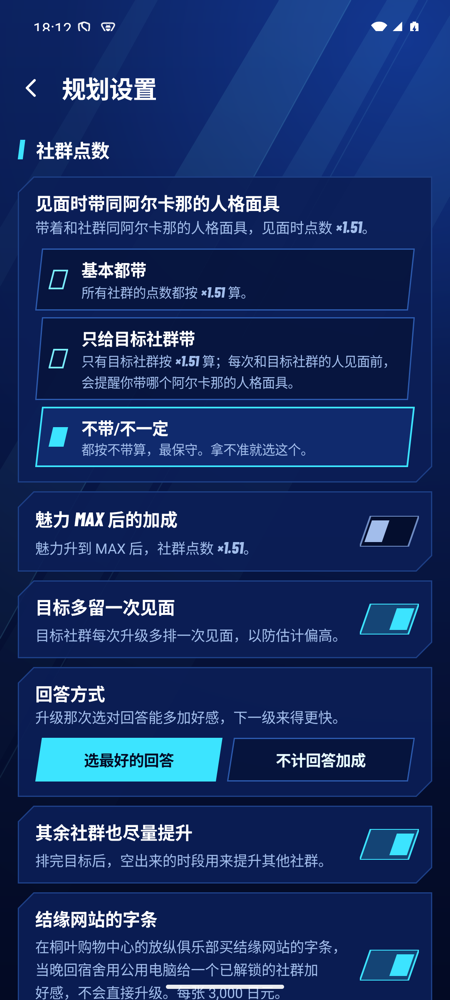
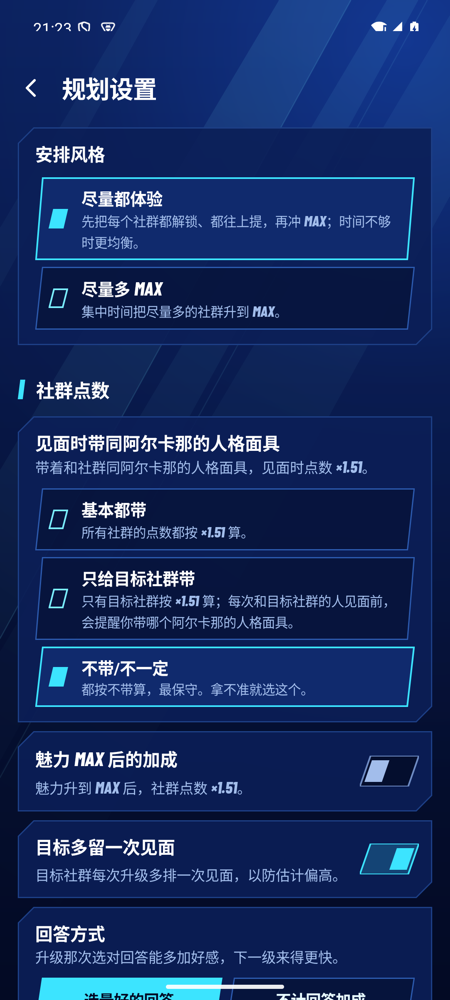
Version 3.1.0: release notes, README, gallery and compliance
- versionCode 33 / versionName 3.1.0.
- RELEASE_NOTES_3.1.0: 尽量都体验 (default), 今天别错过 reminders, answers
  on the widget, 从头重新安排, the Aeon data fix and the 3.0.2 polish that
  never shipped separately, and what changes for 3.0.x players (逐日攻略
  removed: export progress first; remove the old widget).
- README: breadth-first default, new features and numbers from
  PLAN_METRICS; gallery adds 今天别错过, 安排风格, 从头重新安排 (emulator,
  3.1.0 build) and the widget answers row (real-pack render).
- HANDOFF_COMPLIANCE regenerated: 75 met, 1 superseded by the owner's
  removal of the old guide; independent reviews incl. design round 3.

diff --git a/scripts/compliance_doc.py b/scripts/compliance_doc.py
@@ -45,6 +45,7 @@ REVIEWS = (
     ('wiki_sources.json', '数据来源（Reload 专用）'),
     ('design_review_1.json', '外观（第 1 轮）'),
     ('design_review_2.json', '外观（第 2 轮）'),
+    ('design_review_3.json', '外观（第 3 轮，3.1.0 新功能）'),
 )
 VERDICT = {'pass': '✅ 通过', 'pass_with_nits': '✅ 通过（只有小问题）', 'pass_with_notes': '✅ 通过（附说明）', 'fail': '❌ 不通过'}
 

diff --git a/docs/PLAN_METRICS.md b/docs/PLAN_METRICS.md
@@ -4,35 +4,35 @@
 
 | 场景 | 安排风格 | 开始 | 安排范围 | 步数 | 要做的事 | 自由活动 | MAX 社群 | 解锁 | RANK 合计 | RANK 5 以上 | 最低 RANK | 最低 RANK（解锁的） | 羁绊剧情 | 目标升到 MAX | 用时 |
 |---|---|---|---|---|---|---|---|---|---|---|---|---|---|---|---|
-| 对比 · 新游戏 · 不带人格面具 | 尽量多 MAX | 4月21日 白天 | 4月21日 白天 → 1月31日 晚上 | 572 | 454 | 5 | 21/22 | 22/22 | 219 | 22 | 9 | 9 | 0 | — | 812 ms |
-| 对比 · 新游戏 · 不带人格面具 | 尽量都体验 | 4月21日 白天 | 4月21日 白天 → 1月31日 晚上 | 572 | 454 | 5 | 22/22 | 22/22 | 220 | 22 | 10 | 10 | 0 | — | 780 ms |
-| 对比 · 新游戏 · 不带人格面具 · 全部羁绊剧情 | 尽量多 MAX | 4月21日 白天 | 4月21日 白天 → 1月31日 晚上 | 572 | 457 | 2 | 21/22 | 22/22 | 216 | 22 | 6 | 6 | 24 | — | 874 ms |
-| 对比 · 新游戏 · 不带人格面具 · 全部羁绊剧情 | 尽量都体验 | 4月21日 白天 | 4月21日 白天 → 1月31日 晚上 | 572 | 456 | 3 | 21/22 | 22/22 | 217 | 22 | 7 | 7 | 24 | — | 823 ms |
-| 对比 · 新游戏 · 全部羁绊剧情 · 必须：力量 RANK 6 · 想要：命运 RANK 4 | 尽量多 MAX | 4月21日 白天 | 4月21日 白天 → 1月31日 晚上 | 572 | 458 | 1 | 20/22 | 22/22 | 209 | 21 | 3 | 3 | 24 | 力量 6月13日 白天；命运 6月25日 白天 | 1130 ms |
-| 对比 · 新游戏 · 全部羁绊剧情 · 必须：力量 RANK 6 · 想要：命运 RANK 4 | 尽量都体验 | 4月21日 白天 | 4月21日 白天 → 1月31日 晚上 | 572 | 454 | 5 | 19/22 | 22/22 | 213 | 22 | 7 | 7 | 24 | 力量 6月13日 白天；命运 6月25日 白天 | 1418 ms |
-| 对比 · 新游戏 · 只给目标社群带人格面具 · 必须：皇帝 · 想要：恋爱、女皇 | 尽量多 MAX | 4月21日 白天 | 4月21日 白天 → 1月31日 晚上 | 572 | 455 | 4 | 21/22 | 22/22 | 213 | 21 | 3 | 3 | 0 | 皇帝 6月24日 白天；恋爱 10月3日 白天；女皇 12月11日 白天 | 844 ms |
-| 对比 · 新游戏 · 只给目标社群带人格面具 · 必须：皇帝 · 想要：恋爱、女皇 | 尽量都体验 | 4月21日 白天 | 4月21日 白天 → 1月31日 晚上 | 572 | 457 | 2 | 20/22 | 22/22 | 216 | 22 | 8 | 8 | 0 | 皇帝 6月26日 白天；恋爱 10月1日 白天；女皇 12月11日 白天 | 824 ms |
+| 对比 · 新游戏 · 不带人格面具 | 尽量多 MAX | 4月21日 白天 | 4月21日 白天 → 1月31日 晚上 | 572 | 454 | 5 | 21/22 | 22/22 | 219 | 22 | 9 | 9 | 0 | — | 795 ms |
+| 对比 · 新游戏 · 不带人格面具 | 尽量都体验 | 4月21日 白天 | 4月21日 白天 → 1月31日 晚上 | 572 | 454 | 5 | 22/22 | 22/22 | 220 | 22 | 10 | 10 | 0 | — | 755 ms |
+| 对比 · 新游戏 · 不带人格面具 · 全部羁绊剧情 | 尽量多 MAX | 4月21日 白天 | 4月21日 白天 → 1月31日 晚上 | 572 | 457 | 2 | 21/22 | 22/22 | 216 | 22 | 6 | 6 | 24 | — | 832 ms |
+| 对比 · 新游戏 · 不带人格面具 · 全部羁绊剧情 | 尽量都体验 | 4月21日 白天 | 4月21日 白天 → 1月31日 晚上 | 572 | 456 | 3 | 21/22 | 22/22 | 217 | 22 | 7 | 7 | 24 | — | 791 ms |
+| 对比 · 新游戏 · 全部羁绊剧情 · 必须：力量 RANK 6 · 想要：命运 RANK 4 | 尽量多 MAX | 4月21日 白天 | 4月21日 白天 → 1月31日 晚上 | 572 | 458 | 1 | 20/22 | 22/22 | 209 | 21 | 3 | 3 | 24 | 力量 6月13日 白天；命运 6月25日 白天 | 1117 ms |
+| 对比 · 新游戏 · 全部羁绊剧情 · 必须：力量 RANK 6 · 想要：命运 RANK 4 | 尽量都体验 | 4月21日 白天 | 4月21日 白天 → 1月31日 晚上 | 572 | 454 | 5 | 19/22 | 22/22 | 213 | 22 | 7 | 7 | 24 | 力量 6月13日 白天；命运 6月25日 白天 | 1405 ms |
+| 对比 · 新游戏 · 只给目标社群带人格面具 · 必须：皇帝 · 想要：恋爱、女皇 | 尽量多 MAX | 4月21日 白天 | 4月21日 白天 → 1月31日 晚上 | 572 | 455 | 4 | 21/22 | 22/22 | 213 | 21 | 3 | 3 | 0 | 皇帝 6月24日 白天；恋爱 10月3日 白天；女皇 12月11日 白天 | 812 ms |
+| 对比 · 新游戏 · 只给目标社群带人格面具 · 必须：皇帝 · 想要：恋爱、女皇 | 尽量都体验 | 4月21日 白天 | 4月21日 白天 → 1月31日 晚上 | 572 | 457 | 2 | 20/22 | 22/22 | 216 | 22 | 8 | 8 | 0 | 皇帝 6月26日 白天；恋爱 10月1日 白天；女皇 12月11日 白天 | 777 ms |
 | 新游戏 · 不带人格面具 · 全部社群 | 尽量都体验 | 4月21日 白天 | 4月21日 白天 → 1月31日 晚上 | 572 | 454 | 5 | 22/22 | 22/22 | 220 | 22 | 10 | 10 | 0 | — | 736 ms |
-| 新游戏 · 不带人格面具 · 全部羁绊剧情 | 尽量都体验 | 4月21日 白天 | 4月21日 白天 → 1月31日 晚上 | 572 | 456 | 3 | 21/22 | 22/22 | 217 | 22 | 7 | 7 | 24 | — | 815 ms |
-| 新游戏 · 不带人格面具 · 结缘网站的字条 | 尽量都体验 | 4月21日 白天 | 4月21日 白天 → 1月31日 晚上 | 572 | 454 | 5 | 22/22 | 22/22 | 220 | 22 | 10 | 10 | 0 | — | 755 ms |
-| 新游戏 · 只给目标社群带人格面具 · 必须：皇帝 · 想要：恋爱、女皇 | 尽量都体验 | 4月21日 白天 | 4月21日 白天 → 1月31日 晚上 | 572 | 457 | 2 | 20/22 | 22/22 | 216 | 22 | 8 | 8 | 0 | 皇帝 6月26日 白天；恋爱 10月1日 白天；女皇 12月11日 白天 | 774 ms |
-| 新游戏 · 基本都带人格面具 · 结缘网站的字条 | 尽量都体验 | 4月21日 白天 | 4月21日 白天 → 1月31日 晚上 | 572 | 445 | 14 | 22/22 | 22/22 | 220 | 22 | 10 | 10 | 0 | — | 680 ms |
-| 新游戏 · 必须：皇帝 · 结缘网站的字条 | 尽量都体验 | 4月21日 白天 | 4月21日 白天 → 1月31日 晚上 | 572 | 454 | 5 | 21/22 | 22/22 | 219 | 22 | 9 | 9 | 0 | 皇帝 6月29日 白天 | 754 ms |
-| 新游戏 · 携带同阿尔卡那人格面具（×1.51）· 全部社群 | 尽量都体验 | 4月21日 白天 | 4月21日 白天 → 1月31日 晚上 | 572 | 445 | 14 | 22/22 | 22/22 | 220 | 22 | 10 | 10 | 0 | — | 650 ms |
-| 早期 · 4月21日新游戏 · 必须：皇帝 + 其余社群 | 尽量都体验 | 4月21日 白天 | 4月21日 白天 → 1月31日 晚上 | 572 | 454 | 5 | 21/22 | 22/22 | 219 | 22 | 9 | 9 | 0 | 皇帝 6月29日 白天 | 746 ms |
-| 中期 · 10月22日 · 必须：①力量 ②正义 + 其余社群 | 尽量都体验 | 10月22日 白天 | 10月22日 白天 → 1月31日 晚上 | 204 | 169 | 0 | 8/22 | 20/22 | 135 | 13 | 0 | 3 | 0 | 力量 12月26日 白天；正义 1月19日 白天 | 175 ms |
-| 中期 · 10月22日 · 必须：①女教皇 ②女皇 ③恋爱 + 其余社群 | 尽量都体验 | 10月22日 白天 | 10月22日 白天 → 1月31日 晚上 | 204 | 169 | 0 | 6/22 | 18/22 | 97 | 8 | 0 | 1 | 0 | 女教皇 1月25日 白天；女皇 1月27日 白天；恋爱 停在 RANK 0 | 320 ms |
-| 中期 · 10月22日 · 必须：①恶魔 ②女皇 ③月亮 + 其余社群 | 尽量都体验 | 10月22日 白天 | 10月22日 白天 → 1月31日 晚上 | 204 | 169 | 0 | 7/22 | 21/22 | 117 | 11 | 0 | 1 | 0 | 恶魔 12月29日 晚上；女皇 1月23日 白天；月亮 12月22日 白天 | 162 ms |
-| 中期 · 10月22日 · 必须：①正义 ②力量 + 其余社群 | 尽量都体验 | 10月22日 白天 | 10月22日 白天 → 1月31日 晚上 | 204 | 169 | 0 | 7/22 | 20/22 | 133 | 16 | 0 | 3 | 0 | 正义 12月22日 白天；力量 1月20日 白天 | 177 ms |
-| 中期 · 10月22日 · 必须：皇帝 · 想要：女教皇 + 其余社群 | 尽量都体验 | 10月22日 白天 | 10月22日 白天 → 1月31日 晚上 | 204 | 169 | 0 | 7/22 | 21/22 | 137 | 13 | 0 | 3 | 0 | 皇帝 12月21日 白天；女教皇 1月29日 白天 | 160 ms |
-| 中期 · 10月22日 · 魔术师 2、太阳 7、1,000 日元、魅力 Lv.3 | 尽量都体验 | 10月22日 白天 | 10月22日 白天 → 1月31日 晚上 | 204 | 169 | 0 | 8/22 | 21/22 | 151 | 18 | 0 | 4 | 0 | — | 163 ms |
-| 对比 · 中期 · 10月22日 · 全部社群 | 尽量多 MAX | 10月22日 白天 | 10月22日 白天 → 1月31日 晚上 | 204 | 169 | 0 | 13/22 | 20/22 | 152 | 14 | 0 | 0 | 0 | — | 169 ms |
-| 对比 · 中期 · 10月22日 · 全部社群 | 尽量都体验 | 10月22日 白天 | 10月22日 白天 → 1月31日 晚上 | 204 | 169 | 0 | 8/22 | 21/22 | 151 | 18 | 0 | 4 | 0 | — | 163 ms |
-| 对比 · 中期 · 10月22日 · 必须：皇帝 · 想要：女教皇 | 尽量多 MAX | 10月22日 白天 | 10月22日 白天 → 1月31日 晚上 | 204 | 169 | 0 | 10/22 | 21/22 | 137 | 12 | 0 | 1 | 0 | 皇帝 12月21日 白天；女教皇 1月25日 白天 | 173 ms |
-| 对比 · 中期 · 10月22日 · 必须：皇帝 · 想要：女教皇 | 尽量都体验 | 10月22日 白天 | 10月22日 白天 → 1月31日 晚上 | 204 | 169 | 0 | 7/22 | 21/22 | 137 | 13 | 0 | 3 | 0 | 皇帝 12月21日 白天；女教皇 1月29日 白天 | 161 ms |
+| 新游戏 · 不带人格面具 · 全部羁绊剧情 | 尽量都体验 | 4月21日 白天 | 4月21日 白天 → 1月31日 晚上 | 572 | 456 | 3 | 21/22 | 22/22 | 217 | 22 | 7 | 7 | 24 | — | 790 ms |
+| 新游戏 · 不带人格面具 · 结缘网站的字条 | 尽量都体验 | 4月21日 白天 | 4月21日 白天 → 1月31日 晚上 | 572 | 454 | 5 | 22/22 | 22/22 | 220 | 22 | 10 | 10 | 0 | — | 741 ms |
+| 新游戏 · 只给目标社群带人格面具 · 必须：皇帝 · 想要：恋爱、女皇 | 尽量都体验 | 4月21日 白天 | 4月21日 白天 → 1月31日 晚上 | 572 | 457 | 2 | 20/22 | 22/22 | 216 | 22 | 8 | 8 | 0 | 皇帝 6月26日 白天；恋爱 10月1日 白天；女皇 12月11日 白天 | 783 ms |
+| 新游戏 · 基本都带人格面具 · 结缘网站的字条 | 尽量都体验 | 4月21日 白天 | 4月21日 白天 → 1月31日 晚上 | 572 | 445 | 14 | 22/22 | 22/22 | 220 | 22 | 10 | 10 | 0 | — | 668 ms |
+| 新游戏 · 必须：皇帝 · 结缘网站的字条 | 尽量都体验 | 4月21日 白天 | 4月21日 白天 → 1月31日 晚上 | 572 | 454 | 5 | 21/22 | 22/22 | 219 | 22 | 9 | 9 | 0 | 皇帝 6月29日 白天 | 755 ms |
+| 新游戏 · 携带同阿尔卡那人格面具（×1.51）· 全部社群 | 尽量都体验 | 4月21日 白天 | 4月21日 白天 → 1月31日 晚上 | 572 | 445 | 14 | 22/22 | 22/22 | 220 | 22 | 10 | 10 | 0 | — | 659 ms |
+| 早期 · 4月21日新游戏 · 必须：皇帝 + 其余社群 | 尽量都体验 | 4月21日 白天 | 4月21日 白天 → 1月31日 晚上 | 572 | 454 | 5 | 21/22 | 22/22 | 219 | 22 | 9 | 9 | 0 | 皇帝 6月29日 白天 | 759 ms |
+| 中期 · 10月22日 · 必须：①力量 ②正义 + 其余社群 | 尽量都体验 | 10月22日 白天 | 10月22日 白天 → 1月31日 晚上 | 204 | 169 | 0 | 8/22 | 20/22 | 135 | 13 | 0 | 3 | 0 | 力量 12月26日 白天；正义 1月19日 白天 | 178 ms |
+| 中期 · 10月22日 · 必须：①女教皇 ②女皇 ③恋爱 + 其余社群 | 尽量都体验 | 10月22日 白天 | 10月22日 白天 → 1月31日 晚上 | 204 | 169 | 0 | 6/22 | 18/22 | 97 | 8 | 0 | 1 | 0 | 女教皇 1月25日 白天；女皇 1月27日 白天；恋爱 停在 RANK 0 | 329 ms |
+| 中期 · 10月22日 · 必须：①恶魔 ②女皇 ③月亮 + 其余社群 | 尽量都体验 | 10月22日 白天 | 10月22日 白天 → 1月31日 晚上 | 204 | 169 | 0 | 7/22 | 21/22 | 117 | 11 | 0 | 1 | 0 | 恶魔 12月29日 晚上；女皇 1月23日 白天；月亮 12月22日 白天 | 167 ms |
+| 中期 · 10月22日 · 必须：①正义 ②力量 + 其余社群 | 尽量都体验 | 10月22日 白天 | 10月22日 白天 → 1月31日 晚上 | 204 | 169 | 0 | 7/22 | 20/22 | 133 | 16 | 0 | 3 | 0 | 正义 12月22日 白天；力量 1月20日 白天 | 180 ms |
+| 中期 · 10月22日 · 必须：皇帝 · 想要：女教皇 + 其余社群 | 尽量都体验 | 10月22日 白天 | 10月22日 白天 → 1月31日 晚上 | 204 | 169 | 0 | 7/22 | 21/22 | 137 | 13 | 0 | 3 | 0 | 皇帝 12月21日 白天；女教皇 1月29日 白天 | 162 ms |
+| 中期 · 10月22日 · 魔术师 2、太阳 7、1,000 日元、魅力 Lv.3 | 尽量都体验 | 10月22日 白天 | 10月22日 白天 → 1月31日 晚上 | 204 | 169 | 0 | 8/22 | 21/22 | 151 | 18 | 0 | 4 | 0 | — | 170 ms |
+| 对比 · 中期 · 10月22日 · 全部社群 | 尽量多 MAX | 10月22日 白天 | 10月22日 白天 → 1月31日 晚上 | 204 | 169 | 0 | 13/22 | 20/22 | 152 | 14 | 0 | 0 | 0 | — | 173 ms |
+| 对比 · 中期 · 10月22日 · 全部社群 | 尽量都体验 | 10月22日 白天 | 10月22日 白天 → 1月31日 晚上 | 204 | 169 | 0 | 8/22 | 21/22 | 151 | 18 | 0 | 4 | 0 | — | 168 ms |
+| 对比 · 中期 · 10月22日 · 必须：皇帝 · 想要：女教皇 | 尽量多 MAX | 10月22日 白天 | 10月22日 白天 → 1月31日 晚上 | 204 | 169 | 0 | 10/22 | 21/22 | 137 | 12 | 0 | 1 | 0 | 皇帝 12月21日 白天；女教皇 1月25日 白天 | 181 ms |
+| 对比 · 中期 · 10月22日 · 必须：皇帝 · 想要：女教皇 | 尽量都体验 | 10月22日 白天 | 10月22日 白天 → 1月31日 晚上 | 204 | 169 | 0 | 7/22 | 21/22 | 137 | 13 | 0 | 3 | 0 | 皇帝 12月21日 白天；女教皇 1月29日 白天 | 166 ms |
 | 1月8日 · 力量 6、正义 6 · 必须：①力量 ②正义 | 尽量都体验 | 1月8日 白天 | 1月8日 白天 → 1月31日 晚上 | 48 | 46 | 0 | 4/22 | 15/22 | 85 | 8 | 0 | 1 | 0 | 力量 1月27日 白天；正义 停在 RANK 8 | 15 ms |
 | 1月8日 · 力量 6、正义 6 · 必须：①正义 ②力量 | 尽量都体验 | 1月8日 白天 | 1月8日 白天 → 1月31日 晚上 | 48 | 46 | 0 | 4/22 | 15/22 | 86 | 8 | 0 | 1 | 0 | 正义 1月28日 白天；力量 停在 RANK 8 | 15 ms |
-| 1月8日 · 力量 6、正义 6 · 必须：力量 | 尽量都体验 | 1月8日 白天 | 1月8日 白天 → 1月31日 晚上 | 48 | 46 | 0 | 4/22 | 18/22 | 93 | 8 | 0 | 2 | 0 | 力量 1月30日 白天 | 16 ms |
+| 1月8日 · 力量 6、正义 6 · 必须：力量 | 尽量都体验 | 1月8日 白天 | 1月8日 白天 → 1月31日 晚上 | 48 | 46 | 0 | 4/22 | 18/22 | 93 | 8 | 0 | 2 | 0 | 力量 1月30日 白天 | 17 ms |
 | 1月8日 · 力量 6、正义 6 · 必须：正义 | 尽量都体验 | 1月8日 白天 | 1月8日 白天 → 1月31日 晚上 | 48 | 46 | 0 | 4/22 | 18/22 | 92 | 8 | 0 | 2 | 0 | 正义 1月28日 白天 | 15 ms |
-| 对比 · 1月8日 · 晚开始（恶魔未解锁，各社群高低不一） | 尽量多 MAX | 1月8日 白天 | 1月8日 白天 → 1月31日 晚上 | 48 | 46 | 0 | 8/22 | 22/22 | 135 | 15 | 1 | 1 | 0 | — | 11 ms |
+| 对比 · 1月8日 · 晚开始（恶魔未解锁，各社群高低不一） | 尽量多 MAX | 1月8日 白天 | 1月8日 白天 → 1月31日 晚上 | 48 | 46 | 0 | 8/22 | 22/22 | 135 | 15 | 1 | 1 | 0 | — | 12 ms |
 | 对比 · 1月8日 · 晚开始（恶魔未解锁，各社群高低不一） | 尽量都体验 | 1月8日 白天 | 1月8日 白天 → 1月31日 晚上 | 48 | 46 | 0 | 5/22 | 22/22 | 140 | 16 | 3 | 3 | 0 | — | 11 ms |

diff --git a/README.md b/README.md
@@ -2,7 +2,7 @@
 
 离线运行的 Android 应用 + 桌面小组件。根据你**现在的存档状态**和想 MAX 的社群，把从今天到 1 月 31 日的**每一个白天和晚上**都排好，并且整份安排前后自洽：每一步对现金、个人能力值（学力/魅力/勇气）、社群 RANK、解锁进度和塔尔塔罗斯次数的影响都会推演下去，后面的安排建立在前面的结果之上。
 
-> 不追求“全局最优”，追求“相对优秀、靠得住”：先满足你选的目标，剩下的时间尽量把其他社群也拉满。
+> 不追求“全局最优”，追求“相对优秀、靠得住”：先满足你选的目标，剩下的时间默认「尽量都体验」——先把每个社群都解锁、都往上提，再冲 MAX，而不是只冲几个 MAX、不管其余社群。
 
 ## 截图
 
@@ -20,8 +20,13 @@
 <img src="docs/screenshots/rank_pad.png" width="230" alt="RANK 小键盘">
 </p>
 <p>
+<img src="docs/screenshots/reminders.png" width="230" alt="今天别错过">
+<img src="docs/screenshots/settings.png" width="230" alt="规划设置 · 安排风格">
+<img src="docs/screenshots/full_replan.png" width="230" alt="从头重新安排">
+</p>
+<p>
+<img src="docs/screenshots/widget_answers.png" width="320" alt="小组件上的参考回答">
 <img src="docs/screenshots/result_tower.png" width="230" alt="塔尔塔罗斯结果">
-<img src="docs/screenshots/settings.png" width="230" alt="规划设置">
 </p>
 
 ## 下载
@@ -43,9 +48,13 @@
    - 和社群的人见面：弹出小面板，「升到 RANK 7 了」/「没升级」/「没见到」，点一个就行。需要带人格面具时会提醒你带哪个阿尔卡那。
    - 塔尔塔罗斯：填到达的最高层，现金填「出塔后余额」或「这次多了多少」其中一个。
    - 顺便要做的事（比如给田中社长付款）会写在同一项里，不会消耗时间。
+   - 见面时该选哪句：小组件上直接写「答：…」，不用点进去看；课堂提问和考试的答案也会写在当天的卡片上。
+   - **今天别错过**：不会消耗时间但值得做的事会在当天提醒——课堂提问和考试的答案、上课犯困时闭不闭眼、去保健室、电视购物、伊莉莎白的新委托和截止日期、失踪者、黄昏的碎片、新开的店。
 3. **没照安排走**：点「做不了 / 改做别的」选原因或实际做的事，后面的安排会自动重新安排。
 4. **很久没记录**：「我的 → 同步现状」，填今天的游戏日期，只改和预计不一样的数值。
-5. **可选**：在「社群」页勾选想看的羁绊剧情（顺平、真田、虎狼丸、天田、荒垣），会在能看的日子留出时段；11 月后会用「结缘网站的字条」把多出来的晚上换成社群好感。
+5. **想从头再排一遍**：「我的 → 从头重新安排」，重新读取进度和规划设置，不参考现在的安排，从头排到 1月31日（比平时多算几秒）。
+6. **安排风格**：「规划设置」里可以选「尽量都体验」（默认）或「尽量多 MAX」。
+7. **可选**：在「社群」页勾选想看的羁绊剧情（顺平、真田、虎狼丸、天田、荒垣），会在能看的日子留出时段；11 月后会用「结缘网站的字条」把多出来的晚上换成社群好感。
 
 所有记录都能撤销（「我的 → 记录历史」），之后改目标或人格面具设置也不会改写已经确认过的记录。
 
@@ -54,7 +63,8 @@
 - 按时间顺序完整推演整个日历，每个时段只做一件事；每一步的结果（钱、个人能力值、RANK、解锁进度、塔尔塔罗斯次数）都会带到后面。
 - 需要付钱解锁的社群（比如恶魔社群的三次付款）：交完钱手上至少还留 2,500 日元；快到交钱的时候，花钱提升能力和买结缘网站的字条都不会动用要交的钱。只有晚交会赶不上升级目标时，才会留得比这少。
 - 搜索方法：贪心基础策略 + 前瞻“滚动推演”（rollout）。每个时段比较几个候选，各自往后模拟到 1 月 31 日，选最终结果最好的那个；白天优先留给社群，能在晚上练的个人能力值不占白天，打工只在需要用钱时安排。手机上一般 1 秒左右算完，算不完也会给出覆盖到 1 月 31 日的完整安排。
-- 实测（新游戏开始）：见面时基本都带同阿尔卡那的人格面具，预计 22 个社群全部 MAX；不计人格面具加成时 21 个；「必须：皇帝」时皇帝 6月29日 MAX，共 21 个 MAX。目标严格按顺序优先：排在前面的目标不会为了后面的目标让步。各场景的完整结果见 [`docs/PLAN_METRICS.md`](docs/PLAN_METRICS.md)。
+- **尽量都体验（默认）**：不是目标的社群，每升一级的价值递减——解锁一个新社群最值，已经很高的社群再升一级没那么值，所以安排会先把所有社群都解锁、都往上提；MAX 仍然有额外的价值。安排时还会同时算一份「尽量多 MAX」的安排来对比，保证「尽量都体验」不会在解锁数、RANK 5 以上的社群数和 RANK 合计上全面输给它。
+- 实测（新游戏开始，不计人格面具加成）：预计 22 个社群全部 MAX（「尽量多 MAX」是 21 个）；「必须：皇帝」时皇帝 6月29日 MAX，共 21 个 MAX。从 10月22日 开始时，「尽量都体验」会解锁更多社群、让更多社群升到 RANK 5 以上，MAX 的数量少一些。目标严格按顺序优先：排在前面的目标不会为了后面的目标让步。各场景的完整结果见 [`docs/PLAN_METRICS.md`](docs/PLAN_METRICS.md)。
 - 每份安排生成后都由独立的校验器检查：不重复占用时段、不在剧情日行动、不超支、不超过塔尔塔罗斯次数上限、RANK 推演一致。
 - 看不见的数值（好感点数、能力值点数）只用保守估计，并且和你确认过的进度分开保存：预计永远不会被当成已发生的事实。普通见面 +10 点是估计值（游戏里约显示 ♪♪），在「规划说明」里写明。
 

diff --git a/docs/RELEASE_NOTES_3.1.0.md b/docs/RELEASE_NOTES_3.1.0.md
@@ -1,0 +1,54 @@
+# P3R 规划 3.1.0
+
+这一版的重点是两件事：让安排更像一个想把游戏内容尽量都体验到的玩家会做的选择，以及把玩的时候需要知道的东西直接放到眼前。
+
+## 新功能
+
+- **安排风格「尽量都体验」（默认）**：不是你目标的社群，每升一级的价值递减——解锁一个新社群最值，已经很高的社群再升一级没那么值。所以安排会先把每个社群都解锁、都往上提，再冲 MAX，而不是只冲几个 MAX、不管其余社群。
+  - 你选的「必须」「想要」目标照旧严格按顺序优先。
+  - 每次都会同时算一份「尽量多 MAX」的安排来对比：「尽量都体验」在解锁的社群数、升到 RANK 5 以上的社群数和 RANK 合计上，不会全面输给它。
+  - 想集中冲 MAX 的话，可以在「规划设置 → 安排风格」里换成「尽量多 MAX」。
+  - 新建的进度默认勾选全部羁绊剧情；已经存好的设置不会被改动。
+- **今天别错过**：不会消耗时间、但值得做的事，会在当天提醒你。「今天」页、日程和当天的详情里都有，桌面小组件上也会显示最要紧的一条。
+  - 课堂提问和考试的答案；
+  - 上课犯困时闭不闭眼，以及什么时候去保健室（勇气 +2）；
+  - 电视购物的新商品和价格；
+  - 伊莉莎白的新委托和截止日期；
+  - 失踪者和救援期限；
+  - 黄昏的碎片；
+  - 新开的店。
+  - 答案取自 3DM 的《女神异闻录3 Reload》简体中文攻略原文，并和 Reload 的游戏数据、日历逐条核对过日期和选项位置。旧攻略里有 9 处答案照搬了英文版的说法，和简中游戏里的选项对不上（比如 5月19日应为「五月病」），这次全部改正。没有可靠简中原文的 4 天课堂提问暂不显示。
+- **小组件上直接显示该选哪句**：见面时写「答：A / B」，不用点进去看。
+  - 预计这次不一定升级时，写成「要是升级了，答：…」。
+  - 走朋友路线时会提醒别选表白的回答。
+  - 小尺寸时用更短的写法，选项不会被截断；实在放不下时写「等 N 项」，点开就能看全。
+- **从头重新安排**：「我的 → 从头重新安排」会重新读取你记下的进度和规划设置，不参考现在的安排，从头排到 1月31日。比平时多算几秒；算完会告诉你哪里变了，或者「安排没有变化」。
+
+## 数据
+
+- 埃癸斯（永劫）只在周一、三、五、六放学后见面：多份 Reload 攻略都这样写，按「来源不一致时取更严格的说法」的规则修正。
+- 数据来源经过独立复核：没有任何规则用到 P3、FES 或 P3P 的旧数据。
+
+## 外观
+
+- 正文里的词、人名和地点不会被拆到两行；一行不会只剩一个字、「吗？」或「·」「/」。
+- 「社群」页、塔尔塔罗斯记录面板、「今天」页按钮、读取失败提示等处的细节都做了打磨。
+- 桌面小组件的改进：
+  - 已经在显示当前这一项时，「当前」会变暗。
+  - 出错、全部完成、剧情日等状态，只显示一个能点的按钮。
+  - 小尺寸和大字号下，能力值、人名、地点都不会被「…」截断。
+  - 卡片在最小尺寸也总会写明是谁或做什么。
+  - Android 8–11 上也是圆角。
+
+## 从 3.0.x 更新
+
+- 直接覆盖安装即可（同一个包名 `app.p3r.planner`、同一个签名证书）。记录和设置都会保留，打开后会自动重新安排一次。
+- 3.1.0 去掉了「我的 → 逐日攻略」，它的打勾进度更新后就看不到了。想保留的话，**更新前**先打开逐日攻略，点右上角的菜单按钮打开「设置」，再点「导出进度备份」；这个文件可以导入旧版 2.0.0「P3R」的固定攻略。
+- 如果桌面上还有「P3R 逐日攻略」小组件，更新后它会失效，长按把它移除就好；「P3R 每日安排」不受影响。
+- 当天提醒里的能力值加成和电视购物花的钱不在安排的预计里，做了以后去「同步现状」更新一下，安排会更准。
+
+## 校验
+
[1 lines of base64/hex data omitted]
+- 签名证书 SHA-256：`90:EB:C6:4F:B8:6D:A3:F2:C5:50:1F:D3:31:5A:86:9D:B5:3B:AE:48:D5:F4:FD:E9:D1:D8:32:82:AB:8A:79:A0`
+- 最低 Android 8.0（API 26），目标 Android 15（API 35）。安装包约 0.87 MB。

diff --git a/docs/HANDOFF_COMPLIANCE.md b/docs/HANDOFF_COMPLIANCE.md
@@ -1,6 +1,6 @@
 # 交接文档完成情况
 
-本文件逐条对照 `P3R_HANDOFF_PROMPT.md`（交接/设计文档）以及所有者在开发过程中补充的要求，列出 3.0.2 的完成情况和证据。
+本文件逐条对照 `P3R_HANDOFF_PROMPT.md`（交接/设计文档）以及所有者在开发过程中补充的要求，列出 3.1.0 的完成情况和证据。
 每一条都由独立审查代理对照代码、测试、真机/模拟器截图核实（只读审查，证据含文件位置、测试名与运行结果、截图路径），未满足的地方如实写出。原始审查记录在 `docs/analysis/audit/`。
 
 **统计**：已满足 75 条 · 部分满足 0 条 · 未满足 0 条 · 已被所有者要求取代 1 条（共 76 条）。
@@ -114,4 +114,5 @@
 | 数据来源（Reload 专用） | ✅ 通过（附说明）（核对 18 项事实：17 项一致，1 项已按更严格的说法修正） | No use of Persona 3 / FES / Portable (P3P) data for any shipped rule: every pack record cites at least one Reload source, and 'mixed'-edition sources appear only as corroboration next to Reload sources. All pinned snapshots are genuinely Reload: the Steam pages are app 2161700 with Reload-only achievements (Shift, Theurgy, Twilight Fragments); the aqiu game-data files come from src/p3r/Content/Xrd777 (P3R's game files) and three re-fetched upstream copies are byte-identical; the CN guide and 3DM page contain Reload-only content (神通法, 黄昏碎片, 羁绊剧情, 结缘网站的字条). All 33 sha256 pins in SOURCES.json and… | `wiki_sources.json` |
 | 外观（第 1 轮） | ✅ 通过（只有小问题）（看了 134 张图） | Passes on looks: a finished product with its own P3R identity rather than a default template. The navy/cyan palette, slanted panels, calendar-plate dates, condensed italic numerals and faint character art hold together across the wizard, the four tabs, result sheets, settings, keypads and the widget in both palettes. No blocker or major defect; nothing badly clipped; contrast good; large-font renders hold. Remaining issues are Chinese typography and small-size polish. | `design_review_1.json` |
 | 外观（第 2 轮） | ✅ 通过（只有小问题）（看了 96 张图） | The 3.0.2 build looks good: the deep navy and cyan P3R language (slanted buttons, chamfered cards, calendar-plate dates, condensed italic numerals) is applied consistently across app screens, sheets and widgets in both palettes. Hierarchy on Today, Schedule and the result sheets is clear, and the 130%/115% large-font layouts reflow without clipping. 16 of the 18 previous issues are fully fixed; the watermark is partly fixed and the README 社群 shot was still mid-scroll. Remaining items are minor (some widget title lines ending on 「·」, one legacy location starting with 「／」, widget note lines cut… | `design_review_2.json` |
+| 外观（第 3 轮，3.1.0 新功能） | ✅ 通过（只有小问题）（看了 675 张图） | pass_with_nits. I ran the full v3.ui.* and v3.widget.* test suites at 84c0771 in the scratch copy /private/tmp/claude-501/p3r-v3-visual. Gradle exited 0 and wrote 950 PNGs. I reviewed 675 of them by eye, using contact sheets and crops: - 17 app screens (ui/) - all 132 widget answer renders (answers/) - 26 reminder renders (reminders/) - 24 real-pack reminder renders (reminders-real/) - 216 plan states: day and night at 320x200, 250x160 and 180x150 on SDK 31, plus 180x150 on SDK 26 and the 130dp dialogue cards - 48 plan states at font 1.15 (plan-font115/) - all 212 real-pack cards (real/) Out o… | `design_review_3.json` |
 
